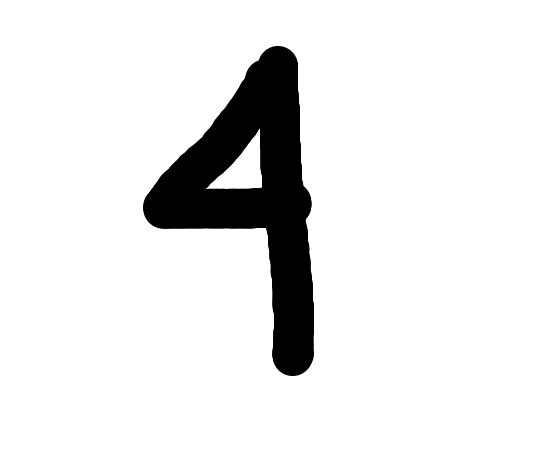
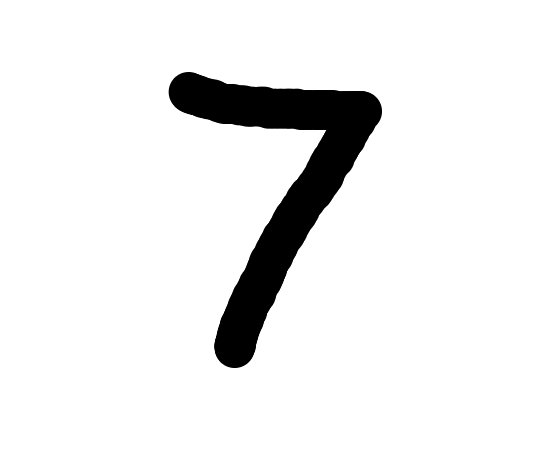
feat: create client-server model for java-python microservice

Changed region(s): [[0.2657, 0.0905, 0.7085, 0.8147]]

diff --git a/src/hust/soict/globalict/javafx/PainterController.java b/src/hust/soict/globalict/javafx/PainterController.java
@@ -11,9 +11,13 @@ import javafx.scene.shape.Circle;
 import javafx.scene.image.WritableImage;
 import javafx.embed.swing.SwingFXUtils;
 import javax.imageio.ImageIO;
-import java.io.File;
-import java.io.BufferedReader;
-import java.io.InputStreamReader;
+import java.io.*;
+import java.net.URI;
+import java.net.http.HttpClient;
+import java.net.http.HttpRequest;
+import java.net.http.HttpResponse;
+import java.nio.file.Paths;
+
 import javafx.scene.control.Alert;
 
 public class PainterController {
@@ -38,36 +42,22 @@ public class PainterController {
     @FXML
     void predictButtonPressed(ActionEvent event) {
         try {
-            // Lấy ảnh từ bảng vẽ
             WritableImage writableImage = new WritableImage((int) drawingAreaPane.getWidth(), (int) drawingAreaPane.getHeight());
             drawingAreaPane.snapshot(null, writableImage);
-            
-            // Lưu ra file image.png
+
             File file = new File("image.png");
             ImageIO.write(SwingFXUtils.fromFXImage(writableImage, null), "png", file);
-            
-            // Gọi Python predict
-            ProcessBuilder builder = new ProcessBuilder("python", "predict.py", "image.png");
-            builder.redirectErrorStream(true);
-            Process process = builder.start();
-            
-            // Đọc kết quả
-            BufferedReader reader = new BufferedReader(new InputStreamReader(process.getInputStream()));
-            String result = reader.readLine();
-            process.waitFor();
-            
-            // Hiển thị kết quả bằng Alert Box
-            Alert alert = new Alert(Alert.AlertType.INFORMATION);
-            alert.setTitle("AI Prediction");
-            alert.setHeaderText(null);
-            alert.setContentText("AI dự đoán đây là số: " + result);
-            alert.showAndWait();
-            
-        } catch (Exception e) {
+
+            // Request to server to proceed
+            try {
+                postRequestImg("image.png");
+            }catch(FileNotFoundException fnfE){
+                System.out.println("File not found:\nMore info:\n");
+                fnfE.printStackTrace();
+            }
+
+        }catch(Exception e){
             e.printStackTrace();
-            Alert error = new Alert(Alert.AlertType.ERROR);
-            error.setContentText("Lỗi khi dự đoán: " + e.getMessage());
-            error.showAndWait();
         }
     }
 
@@ -82,4 +72,46 @@ public class PainterController {
         drawingAreaPane.getChildren().add(newCircle);
     }
 
+    private void postRequestImg(String imagePath) throws FileNotFoundException {
+        HttpClient client = HttpClient.newHttpClient();
+
+        HttpRequest request = HttpRequest.newBuilder()
+                .uri(URI.create("http://127.0.0.1:5000/process-image"))
+                .header("Content-Type", "image/png")
+                .POST(HttpRequest.BodyPublishers.ofFile(Paths.get(imagePath)))
+                .build();
+
+        try{
+            HttpResponse<String> response = client.send(request, HttpResponse.BodyHandlers.ofString());
+            System.out.println(response.statusCode());
+            if (response.statusCode() == 200){
+                System.out.println("Image is received\n");
+
+                String result = response.body().toString();
+                popupWindow(result);
+            }
+        }catch(IOException | InterruptedException e){
+            e.printStackTrace();
+        }
+    }
+
+    private void popupWindow(String result){
+        Alert alert = new Alert(Alert.AlertType.INFORMATION);
+        alert.setTitle("The AI prediction!");
+
+        System.out.println(result);
+        char predictedNb = trimJsonToOneDigitNb(result);
+        System.out.println(predictedNb);
+        if (Character.isDigit(predictedNb)){
+            alert.setContentText("AI predicts number " + trimJsonToOneDigitNb(result));
+        }else{
+            System.out.println("AI can not predict this or something's wrong here!");
+        }
+
+        alert.showAndWait();
+    }
+
+    private char trimJsonToOneDigitNb(String result){
+        return result.charAt(result.indexOf(':') + 1);
+    }
 }

diff --git a/server.py b/server.py
@@ -2,8 +2,11 @@ import torch
 from torch import nn
 from torchvision import transforms
 from PIL import Image
-import sys
 import PIL.ImageOps
+import io
+
+from fastapi import FastAPI, Request
+import uvicorn
 
 class NeuralNetwork(nn.Module):
     def __init__(self):
@@ -21,13 +24,13 @@ class NeuralNetwork(nn.Module):
         x = self.flatten(x)
         return self.linear_relu_stack(x)
 
-def predict(image_path):
-    model = NeuralNetwork()
-    model.load_state_dict(torch.load("mnist_mlp.params", weights_only=True))
-    model.eval()
+model = NeuralNetwork()
+model.load_state_dict(torch.load("mnist_mlp.params", weights_only=True))
+model.eval()
 
+def predict(image_bytes):
     try:
-        image = Image.open(image_path)
+        image = Image.open(io.BytesIO(image_bytes))
 
         if image.mode != 'RGB':
             image = image.convert('RGB')
@@ -36,7 +39,7 @@ def predict(image_path):
         # Grayscale TRƯỚC khi xử lý bounding box
         gray_image = image.convert('L')
 
-        # Ngưỡng 128 thay vì 50
+        # Ngưỡng 128
         bw_image = gray_image.point(lambda x: 0 if x < 128 else 255, '1')
         bbox = bw_image.getbbox()
 
@@ -59,7 +62,7 @@ def predict(image_path):
             transforms.Grayscale(num_output_channels=1),  # an toàn nếu chưa phải L
             transforms.Resize((28, 28), interpolation=transforms.InterpolationMode.LANCZOS),
             transforms.ToTensor(),
-            transforms.Normalize((0.1307,), (0.3081,))  # ← quan trọng nhất
+            transforms.Normalize((0.1307,), (0.3081,))
         ])
 
         tensor_img = transform(image).unsqueeze(0)
@@ -68,14 +71,28 @@ def predict(image_path):
             logits = model(tensor_img)
             predicted_class = logits.argmax(1).item()
 
-        print(predicted_class)
+        return predicted_class
 
     except Exception as e:
         print(f"Error: {e}")
+        return -1
+
+app = FastAPI()
+
+@app.post("/process-image")
+async def process_image(request: Request):
+    print("Receiving request...")
+
+    image_bytes = await request.body()
+
+    print(f"Processing image ...")
+
+    processing_result = predict(image_bytes)
+
+    return {
+        "result": processing_result
+    }
 
 if __name__ == "__main__":
-    if len(sys.argv) > 1:
-        img_path = sys.argv[1]
-        predict(img_path)
-    else:
-        print("Please provide image path")
+    uvicorn.run("server:app", host="127.0.0.1", port=5000, reload=True)
+

diff --git a/src/hust/soict/globalict/javafx/TestPost.java b/src/hust/soict/globalict/javafx/TestPost.java
@@ -1,18 +1,21 @@
 package hust.soict.globalict.javafx;
 
+import java.io.FileNotFoundException;
 import java.io.IOException;
 import java.net.URI;
 import java.net.http.HttpClient;
 import java.net.http.HttpRequest;
 import java.net.http.HttpResponse;
+import java.nio.file.Path;
+import java.nio.file.Paths;
 
 public class TestPost{
     public static void postRequestJson(String jsonBody){
         HttpClient client = HttpClient.newHttpClient();
 
         HttpRequest request = HttpRequest.newBuilder()
-                .uri(URI.create("https://httpbin.org/post"))
-                .header("Content-Type", "application/json")
+                .uri(URI.create("http://httpbin.org/post"))
+                .header("Content-Type", "image/png")
                 .POST(HttpRequest.BodyPublishers.ofString(jsonBody))
                 .build();
 
@@ -25,7 +28,34 @@ public class TestPost{
         }
     }
 
-    public static void main(){
-        postRequestJson("{\"name\": \"Charles\", \"major\": \"computer science\"}");
+    public static void postRequestImg(String imagePath) throws FileNotFoundException {
+        HttpClient client = HttpClient.newHttpClient();
+
+        HttpRequest request = HttpRequest.newBuilder()
+                .uri(URI.create("http://127.0.0.1:5000/process-image"))
+                .header("Content-Type", "image/png")
+                .POST(HttpRequest.BodyPublishers.ofFile(Paths.get(imagePath)))
+                .build();
+
+        try{
+            HttpResponse<String> response = client.send(request, HttpResponse.BodyHandlers.ofString());
+            System.out.println("Status code: " + response.statusCode());
+
+            if (response.statusCode() == 200){
+                System.out.println("Response body:\n" + response.body());
+
+            }
+        }catch (IOException | InterruptedException e){
+            e.printStackTrace();
+        }
+
+    }
+
+    public static void main(String[] args){
+        try{
+            postRequestImg("image.png");
+        }catch(FileNotFoundException fnf){
+            System.out.println("File not found!");
+        }
     }
 }

diff --git a/src/module-info.java b/src/module-info.java
@@ -3,6 +3,7 @@ module GUIProject {
     requires javafx.fxml;
     requires java.desktop;
     requires javafx.swing;
+    requires java.net.http;
 
     opens hust.soict.globalict.javafx to javafx.fxml;
     exports hust.soict.globalict.javafx;
